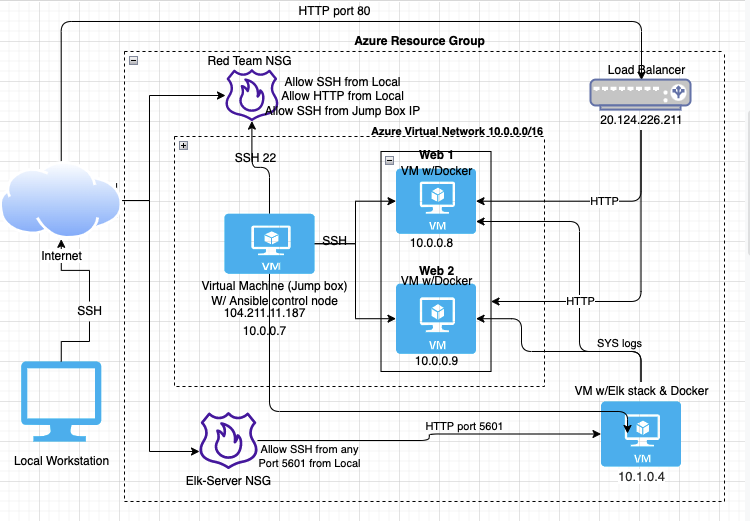
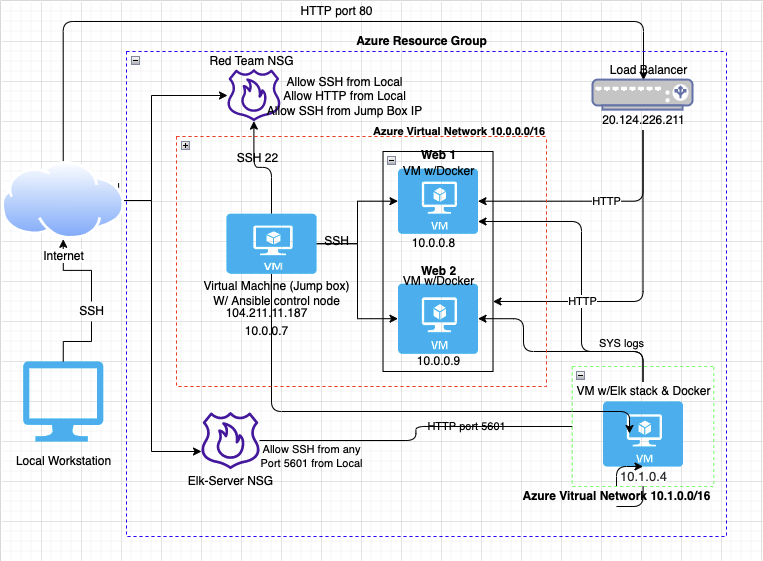
updated network diagram and updated readme file

diff --git a/README.md b/README.md
@@ -10,9 +10,9 @@ The files in this repository were used to configure the network depicted below.
 These files have been tested and used to generate a live ELK deployment on Azure. They can be used to either recreate the entire deployment pictured above. Alternatively, select portions of the yaml file may be used to install only certain pieces of it, such as Filebeat.
 
 
-  -[install_elk.yml](https://github.com/Cprejean/Elkstack_Project_1/blob/main/ansible/filebeat-playbook.yml)
-  - [filebeat](https://github.com/Cprejean/Elkstack_Project_1/blob/main/ansible/filebeat-playbook.yml)
-- [metricbeat](https://github.com/Cprejean/Elkstack_Project_1/blob/main/ansible/Metricbeat-Playbook.yml)
+* [install_elk.yml](https://github.com/Cprejean/Elkstack_Project_1/blob/main/ansible/filebeat-playbook.yml)
+* [filebeat](https://github.com/Cprejean/Elkstack_Project_1/blob/main/ansible/filebeat-playbook.yml)
+* [metricbeat](https://github.com/Cprejean/Elkstack_Project_1/blob/main/ansible/Metricbeat-Playbook.yml)
 
 
 This document contains the following details:
